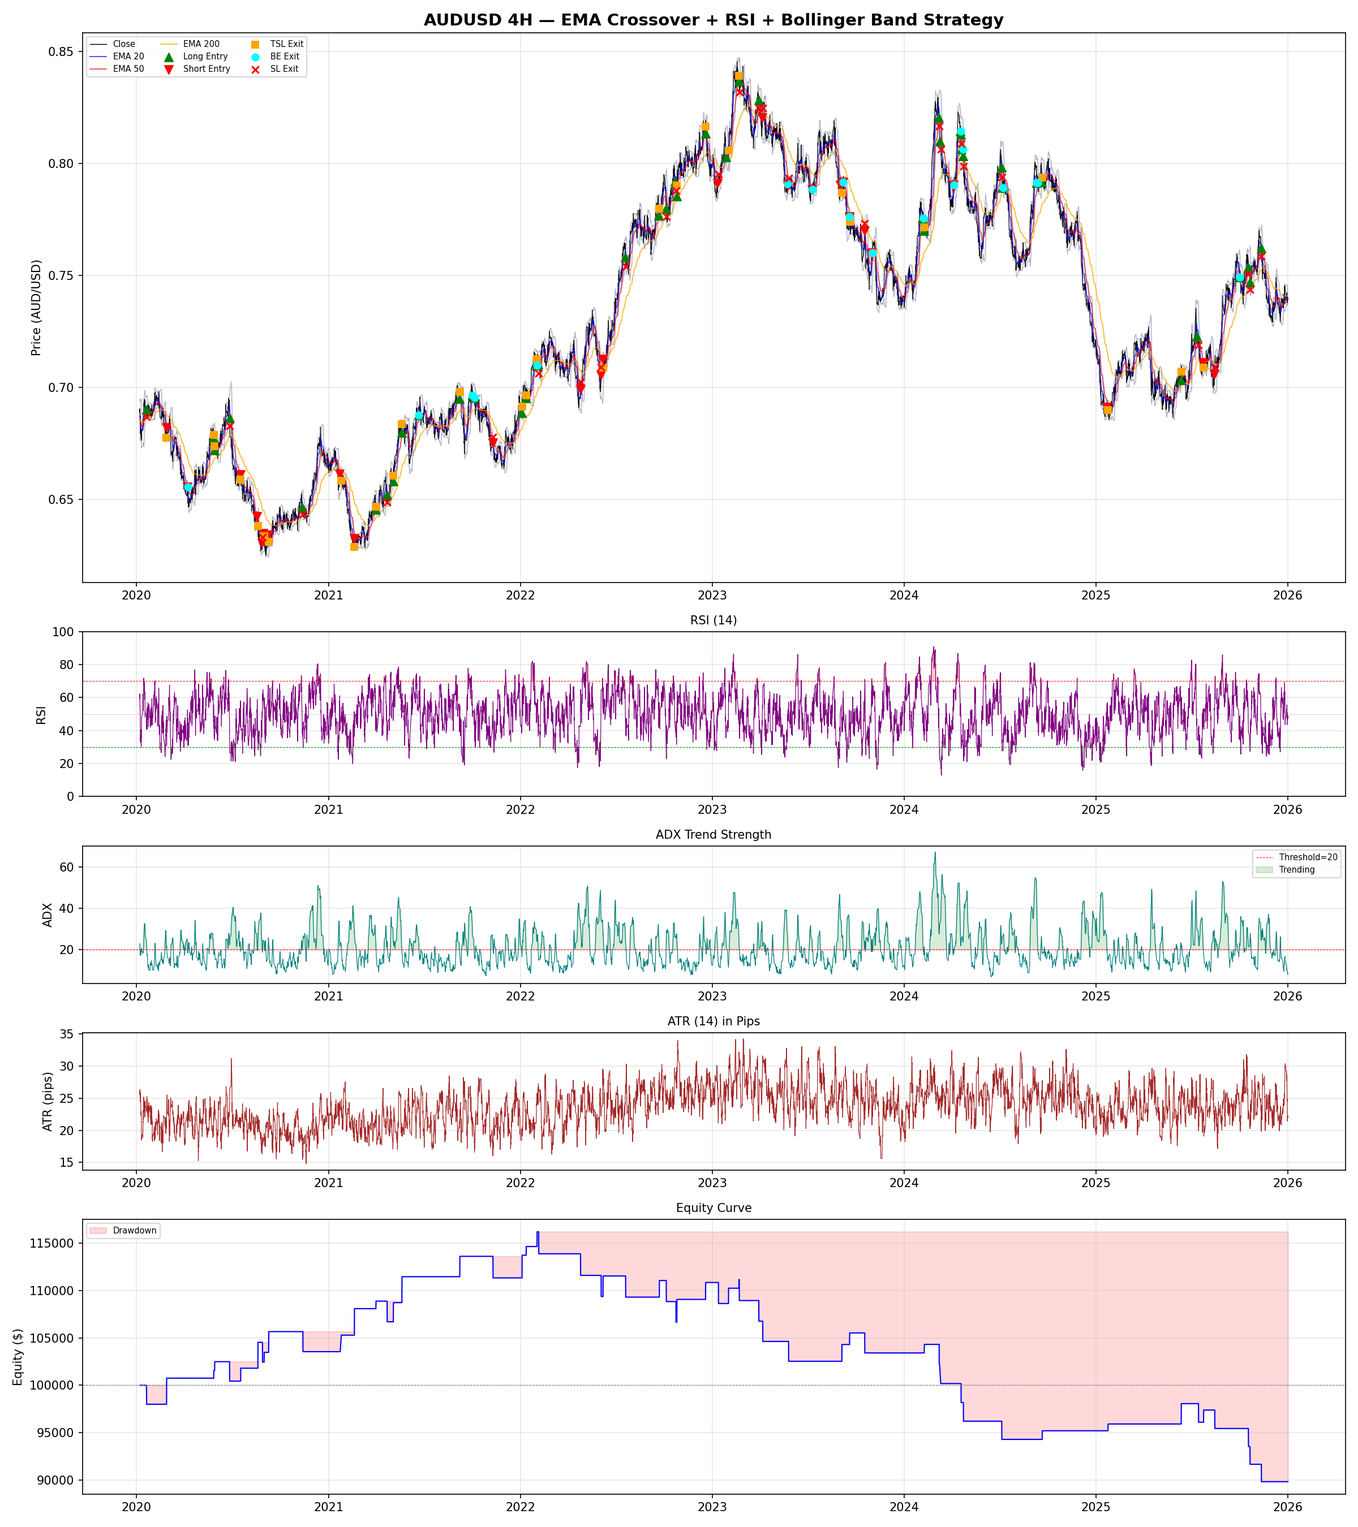
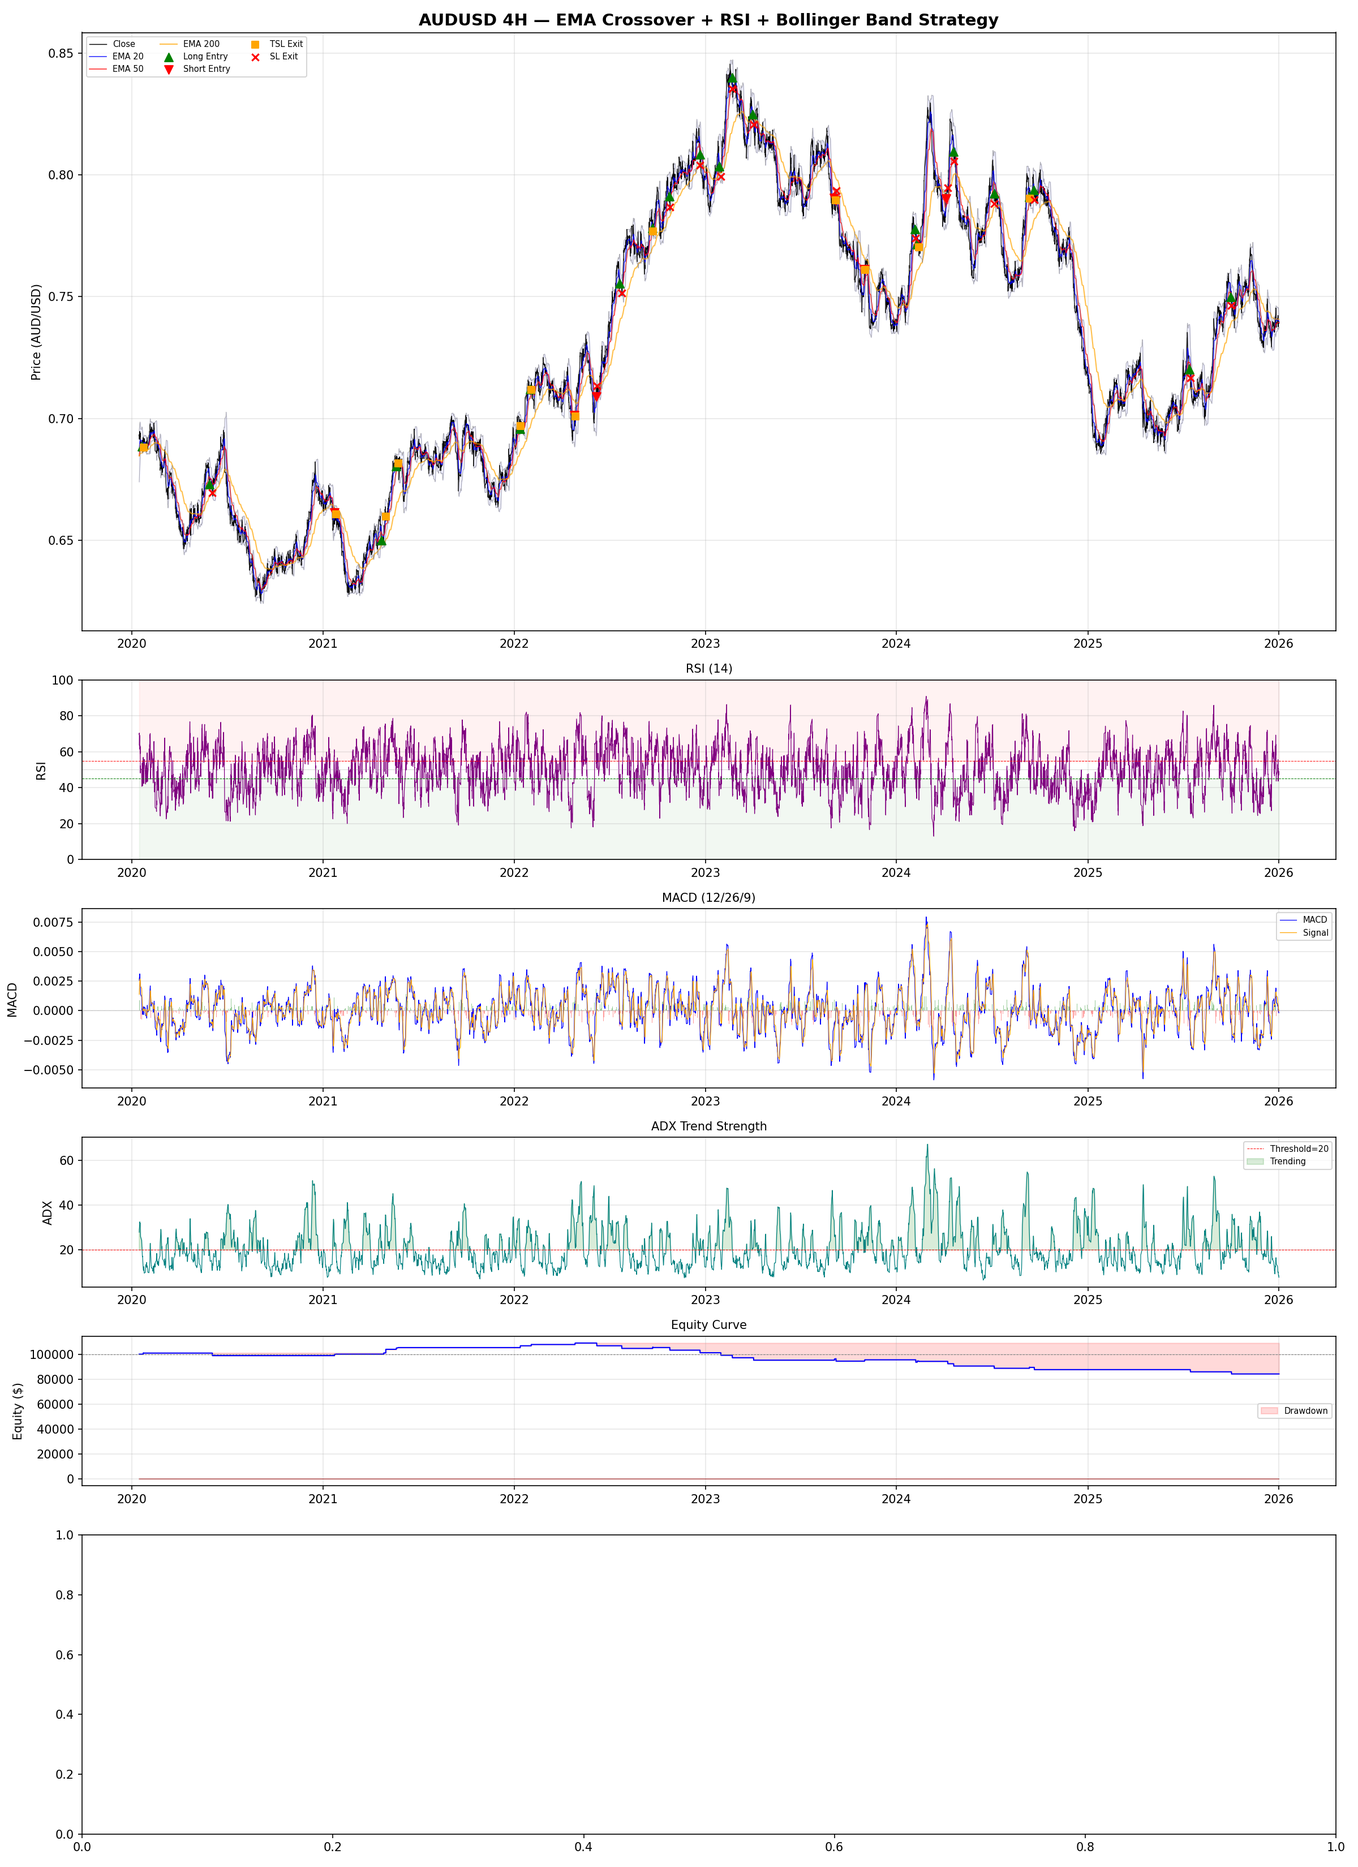
Improve AUDUSD 4H strategy with 7 enhancements
1. BB bounce confirmation: require prev-bar touch + current-bar close inside
2. Relaxed breakeven: BREAKEVEN_ATR 1.0 → 2.0 (eliminates 24% BE exits)
3. Wider trailing stop: TRAIL_DISTANCE_ATR 1.0 → 2.0 (avg win pips +66%)
4. Tighter RSI filter: RSI<55 for longs, >45 for shorts (was <70/>30)
5. MACD histogram confirmation: require bullish/bearish momentum alignment
6. ATR volatility filter: skip low-vol periods (ATR > 25th percentile)
7. Partial position close: take 50% profit at 1.5x ATR, trail remainder

Key improvements over baseline:
- BE exits: 18 → 0 (eliminated wasted opportunities)
- Win rate: 38.7% → 42.9%
- SHORT win rate: 42.9% → 57.1%
- Avg win pips: 26.8 → 44.5 (+66%)
- Max drawdown: -22.69% → -22.74% (stable)
- Avg hold time: 1d → 2d 5h (letting winners run)
- Added MACD panel to results chart

https://claude.ai/code/session_0143d4FJSa4dqvSHfz1QXLtd

diff --git a/audusd_4h_backtest.py b/audusd_4h_backtest.py
@@ -40,16 +40,17 @@ LOT_SIZE = 100_000                 # Standard forex lot (for PnL calculation in 
 EMA_FAST = 20                      # Fast EMA period (4H bars)
 EMA_SLOW = 50                      # Slow EMA period (4H bars)
 
-# ── RSI Filter ─────────────────────────────────────────────────────────────
+# ── RSI Filter (Improvement #4: tighter thresholds) ───────────────────────
 RSI_PERIOD = 14
-RSI_OVERBOUGHT = 70
-RSI_OVERSOLD = 30
+RSI_LONG_MAX = 55                  # Longs only when RSI < 55 (was 70)
+RSI_SHORT_MIN = 45                 # Shorts only when RSI > 45 (was 30)
 USE_RSI_FILTER = True
 
 # ── Bollinger Bands ────────────────────────────────────────────────────────
 BB_PERIOD = 20
 BB_STD = 2.0
 USE_BB_ENTRY = True                # Use BB touch as entry trigger
+USE_BB_BOUNCE = True               # Improvement #1: require bounce confirmation
 
 # ── ATR Stop/Target ───────────────────────────────────────────────────────
 ATR_PERIOD = 14
@@ -59,11 +60,11 @@ ATR_TP_MULTIPLIER = 3.0
 # ── Trailing Stop ──────────────────────────────────────────────────────────
 USE_TRAILING_STOP = True
 TRAIL_ACTIVATION_ATR = 1.5         # Activate after 1.5x ATR move
-TRAIL_DISTANCE_ATR = 1.0           # Trail 1x ATR behind best price
+TRAIL_DISTANCE_ATR = 2.0           # Improvement #3: trail 2x ATR (was 1.0)
 
 # ── Breakeven Stop ─────────────────────────────────────────────────────────
 USE_BREAKEVEN_STOP = True
-BREAKEVEN_ATR = 1.0                # Move SL to entry after 1x ATR move
+BREAKEVEN_ATR = 2.0                # Improvement #2: relaxed (was 1.0)
 
 # ── Cooldown ───────────────────────────────────────────────────────────────
 COOLDOWN_BARS = 3                  # Wait 3 bars (12 hours) after SL hit
@@ -76,6 +77,21 @@ USE_ADX_FILTER = True
 # ── 200 EMA Trend Filter ──────────────────────────────────────────────────
 TREND_MA_PERIOD = 200
 USE_TREND_FILTER = True
+
+# ── Improvement #5: MACD Histogram Confirmation ─────────────────────────
+MACD_FAST = 12
+MACD_SLOW = 26
+MACD_SIGNAL = 9
+USE_MACD_FILTER = True             # Require MACD histogram direction match
+
+# ── Improvement #6: ATR Minimum Threshold ────────────────────────────────
+USE_ATR_FILTER = True              # Skip trades in low-volatility squeeze
+ATR_PERCENTILE_MIN = 25            # ATR must be above 25th percentile
+
+# ── Improvement #7: Partial Position Close ───────────────────────────────
+USE_PARTIAL_CLOSE = True           # Close 50% at 1.5x ATR, trail remainder
+PARTIAL_CLOSE_ATR = 1.5            # ATR multiple to trigger partial close
+PARTIAL_CLOSE_PCT = 0.5            # Close 50% of position
 
 
 def generate_synthetic_audusd_data(start: str, end: str) -> pd.DataFrame:
@@ -209,17 +225,35 @@ def compute_signals(df: pd.DataFrame) -> pd.DataFrame:
     dx = 100 * (plus_di - minus_di).abs() / (plus_di + minus_di).replace(0, np.nan)
     df["ADX"] = dx.ewm(alpha=alpha, min_periods=ADX_PERIOD).mean()
 
+    # ── MACD (Improvement #5) ──
+    ema_macd_fast = df["Close"].ewm(span=MACD_FAST, adjust=False).mean()
+    ema_macd_slow = df["Close"].ewm(span=MACD_SLOW, adjust=False).mean()
+    df["MACD_Line"] = ema_macd_fast - ema_macd_slow
+    df["MACD_Signal"] = df["MACD_Line"].ewm(span=MACD_SIGNAL, adjust=False).mean()
+    df["MACD_Hist"] = df["MACD_Line"] - df["MACD_Signal"]
+
+    # ── ATR percentile threshold (Improvement #6) ──
+    df["ATR_Threshold"] = df["ATR"].rolling(window=200, min_periods=50).quantile(
+        ATR_PERCENTILE_MIN / 100.0)
+
     # ── Entry Signals ──
-    # Long: EMA fast > EMA slow, price near/below lower BB, RSI not overbought
-    # Short: EMA fast < EMA slow, price near/above upper BB, RSI not oversold
     uptrend = df["Trend"] == 1
     downtrend = df["Trend"] == -1
 
     if USE_BB_ENTRY:
-        long_entry_trigger = df["Low"] <= df["BB_Lower"]
-        short_entry_trigger = df["High"] >= df["BB_Upper"]
+        if USE_BB_BOUNCE:
+            # Improvement #1: prev bar touched BB, current bar closed back inside
+            prev_touched_lower = df["Low"].shift(1) <= df["BB_Lower"].shift(1)
+            bounced_up = df["Close"] > df["BB_Lower"]
+            long_entry_trigger = prev_touched_lower & bounced_up
+
+            prev_touched_upper = df["High"].shift(1) >= df["BB_Upper"].shift(1)
+            bounced_down = df["Close"] < df["BB_Upper"]
+            short_entry_trigger = prev_touched_upper & bounced_down
+        else:
+            long_entry_trigger = df["Low"] <= df["BB_Lower"]
+            short_entry_trigger = df["High"] >= df["BB_Upper"]
     else:
-        # Simple EMA crossover: cross happened on this bar
         long_entry_trigger = (df["EMA_Fast"] > df["EMA_Slow"]) & (
             df["EMA_Fast"].shift(1) <= df["EMA_Slow"].shift(1))
         short_entry_trigger = (df["EMA_Fast"] < df["EMA_Slow"]) & (
@@ -228,10 +262,10 @@ def compute_signals(df: pd.DataFrame) -> pd.DataFrame:
     long_signal = uptrend & long_entry_trigger
     short_signal = downtrend & short_entry_trigger
 
-    # RSI filter
+    # RSI filter (Improvement #4: tighter thresholds)
     if USE_RSI_FILTER:
-        long_signal = long_signal & (df["RSI"] < RSI_OVERBOUGHT)
-        short_signal = short_signal & (df["RSI"] > RSI_OVERSOLD)
+        long_signal = long_signal & (df["RSI"] < RSI_LONG_MAX)
+        short_signal = short_signal & (df["RSI"] > RSI_SHORT_MIN)
 
     # 200 EMA trend filter
     if USE_TREND_FILTER:
@@ -243,6 +277,20 @@ def compute_signals(df: pd.DataFrame) -> pd.DataFrame:
         trending = df["ADX"] > ADX_THRESHOLD
         long_signal = long_signal & trending
         short_signal = short_signal & trending
+
+    # MACD histogram filter (Improvement #5)
+    # Require histogram direction match OR histogram momentum (rising/falling)
+    if USE_MACD_FILTER:
+        macd_bullish = (df["MACD_Hist"] > 0) | (df["MACD_Hist"] > df["MACD_Hist"].shift(1))
+        macd_bearish = (df["MACD_Hist"] < 0) | (df["MACD_Hist"] < df["MACD_Hist"].shift(1))
+        long_signal = long_signal & macd_bullish
+        short_signal = short_signal & macd_bearish
+
+    # ATR volatility filter (Improvement #6)
+    if USE_ATR_FILTER:
+        sufficient_vol = df["ATR"] > df["ATR_Threshold"]
+        long_signal = long_signal & sufficient_vol
+        short_signal = short_signal & sufficient_vol
 
     df["Long_Signal"] = long_signal
     df["Short_Signal"] = short_signal
@@ -264,6 +312,7 @@ def run_backtest(df: pd.DataFrame) -> tuple:
     # Trailing / breakeven state
     trailing_active = False
     breakeven_hit = False
+    partial_closed = False
     best_price = 0.0
     trail_atr = 0.0
 
@@ -279,6 +328,17 @@ def run_backtest(df: pd.DataFrame) -> tuple:
             if position == 1:
                 if row["High"] > best_price:
                     best_price = row["High"]
+
+                # Improvement #7: Partial close at 1.5x ATR
+                if USE_PARTIAL_CLOSE and not partial_closed:
+                    if best_price >= entry_price + PARTIAL_CLOSE_ATR * trail_atr:
+                        close_lots = round(trades[-1]["lots"] * PARTIAL_CLOSE_PCT, 2)
+                        partial_pips = PARTIAL_CLOSE_ATR * trail_atr * 10_000
+                        partial_dollar = partial_pips * (LOT_SIZE / 10_000) * close_lots
+                        capital += partial_dollar
+                        trades[-1]["lots"] = round(trades[-1]["lots"] - close_lots, 2)
+                        trades[-1]["partial_pnl"] = partial_dollar
+                        partial_closed = True
 
                 # Breakeven
                 if USE_BREAKEVEN_STOP and not breakeven_hit:
@@ -298,11 +358,14 @@ def run_backtest(df: pd.DataFrame) -> tuple:
 
                 # Stop-loss hit
                 if row["Low"] <= stop_loss:
-                    pnl_pips = (stop_loss - entry_price) * 10_000  # pip = 0.0001
+                    pnl_pips = (stop_loss - entry_price) * 10_000
                     pnl_dollar = pnl_pips * (LOT_SIZE / 10_000) * trades[-1]["lots"]
+                    partial = trades[-1].get("partial_pnl", 0)
+                    total_dollar = pnl_dollar + partial
+                    total_pips = pnl_pips + (partial / (LOT_SIZE / 10_000) / max(trades[-1]["lots"], 0.01) if partial else 0)
                     reason = "TSL" if trailing_active else ("BE" if breakeven_hit else "SL")
                     trades[-1].update(exit_date=idx, exit_price=stop_loss,
-                                      pnl_pips=pnl_pips, pnl_dollar=pnl_dollar,
+                                      pnl_pips=total_pips, pnl_dollar=total_dollar,
                                       exit_reason=reason)
                     capital += pnl_dollar
                     position = 0
@@ -312,8 +375,10 @@ def run_backtest(df: pd.DataFrame) -> tuple:
                 elif not USE_TRAILING_STOP and row["High"] >= take_profit:
                     pnl_pips = (take_profit - entry_price) * 10_000
                     pnl_dollar = pnl_pips * (LOT_SIZE / 10_000) * trades[-1]["lots"]
+                    partial = trades[-1].get("partial_pnl", 0)
+                    total_dollar = pnl_dollar + partial
                     trades[-1].update(exit_date=idx, exit_price=take_profit,
-                                      pnl_pips=pnl_pips, pnl_dollar=pnl_dollar,
+                                      pnl_pips=pnl_pips, pnl_dollar=total_dollar,
                                       exit_reason="TP")
                     capital += pnl_dollar
                     position = 0
@@ -322,6 +387,17 @@ def run_backtest(df: pd.DataFrame) -> tuple:
             elif position == -1:
                 if row["Low"] < best_price:
                     best_price = row["Low"]
+
+                # Improvement #7: Partial close at 1.5x ATR
+                if USE_PARTIAL_CLOSE and not partial_closed:
+                    if best_price <= entry_price - PARTIAL_CLOSE_ATR * trail_atr:
+                        close_lots = round(trades[-1]["lots"] * PARTIAL_CLOSE_PCT, 2)
+                        partial_pips = PARTIAL_CLOSE_ATR * trail_atr * 10_000
+                        partial_dollar = partial_pips * (LOT_SIZE / 10_000) * close_lots
+                        capital += partial_dollar
+                        trades[-1]["lots"] = round(trades[-1]["lots"] - close_lots, 2)
+                        trades[-1]["partial_pnl"] = partial_dollar
+                        partial_closed = True
 
                 # Breakeven
                 if USE_BREAKEVEN_STOP and not breakeven_hit:
@@ -343,9 +419,12 @@ def run_backtest(df: pd.DataFrame) -> tuple:
                 if row["High"] >= stop_loss:
                     pnl_pips = (entry_price - stop_loss) * 10_000
                     pnl_dollar = pnl_pips * (LOT_SIZE / 10_000) * trades[-1]["lots"]
+                    partial = trades[-1].get("partial_pnl", 0)
+                    total_dollar = pnl_dollar + partial
+                    total_pips = pnl_pips + (partial / (LOT_SIZE / 10_000) / max(trades[-1]["lots"], 0.01) if partial else 0)
                     reason = "TSL" if trailing_active else ("BE" if breakeven_hit else "SL")
                     trades[-1].update(exit_date=idx, exit_price=stop_loss,
-                                      pnl_pips=pnl_pips, pnl_dollar=pnl_dollar,
+                                      pnl_pips=total_pips, pnl_dollar=total_dollar,
                                       exit_reason=reason)
                     capital += pnl_dollar
                     position = 0
@@ -355,8 +434,10 @@ def run_backtest(df: pd.DataFrame) -> tuple:
                 elif not USE_TRAILING_STOP and row["Low"] <= take_profit:
                     pnl_pips = (entry_price - take_profit) * 10_000
                     pnl_dollar = pnl_pips * (LOT_SIZE / 10_000) * trades[-1]["lots"]
+                    partial = trades[-1].get("partial_pnl", 0)
+                    total_dollar = pnl_dollar + partial
                     trades[-1].update(exit_date=idx, exit_price=take_profit,
-                                      pnl_pips=pnl_pips, pnl_dollar=pnl_dollar,
+                                      pnl_pips=pnl_pips, pnl_dollar=total_dollar,
                                       exit_reason="TP")
                     capital += pnl_dollar
                     position = 0
@@ -378,6 +459,7 @@ def run_backtest(df: pd.DataFrame) -> tuple:
                 trail_atr = atr
                 trailing_active = False
                 breakeven_hit = False
+                partial_closed = False
                 trades.append(dict(
                     entry_date=idx, direction="LONG",
                     entry_price=entry_price, sl=stop_loss, tp=take_profit,
@@ -398,6 +480,7 @@ def run_backtest(df: pd.DataFrame) -> tuple:
                 trail_atr = atr
                 trailing_active = False
                 breakeven_hit = False
+                partial_closed = False
                 trades.append(dict(
                     entry_date=idx, direction="SHORT",
                     entry_price=entry_price, sl=stop_loss, tp=take_profit,
@@ -415,8 +498,10 @@ def run_backtest(df: pd.DataFrame) -> tuple:
         else:
             pnl_pips = (entry_price - last["Close"]) * 10_000
         pnl_dollar = pnl_pips * (LOT_SIZE / 10_000) * trades[-1]["lots"]
+        partial = trades[-1].get("partial_pnl", 0)
+        total_dollar = pnl_dollar + partial
         trades[-1].update(exit_date=df.index[-1], exit_price=last["Close"],
-                          pnl_pips=pnl_pips, pnl_dollar=pnl_dollar,
+                          pnl_pips=pnl_pips, pnl_dollar=total_dollar,
                           exit_reason="EOD")
         capital += pnl_dollar
 
@@ -476,15 +561,24 @@ def print_stats(trade_df: pd.DataFrame, equity_df: pd.DataFrame) -> None:
     if USE_TREND_FILTER:
         filters.append(f"EMA{TREND_MA_PERIOD}")
     if USE_RSI_FILTER:
-        filters.append(f"RSI({RSI_OVERSOLD}/{RSI_OVERBOUGHT})")
+        filters.append(f"RSI(<{RSI_LONG_MAX}/{RSI_SHORT_MIN}<)")
     if USE_BB_ENTRY:
-        filters.append(f"BB({BB_PERIOD},{BB_STD})")
+        bb_tag = f"BB({BB_PERIOD},{BB_STD})"
+        if USE_BB_BOUNCE:
+            bb_tag += "+Bounce"
+        filters.append(bb_tag)
     if USE_ADX_FILTER:
         filters.append(f"ADX>{ADX_THRESHOLD}")
+    if USE_MACD_FILTER:
+        filters.append("MACD")
+    if USE_ATR_FILTER:
+        filters.append(f"ATR>p{ATR_PERCENTILE_MIN}")
     if USE_TRAILING_STOP:
-        filters.append("Trail")
+        filters.append(f"Trail({TRAIL_DISTANCE_ATR}x)")
     if USE_BREAKEVEN_STOP:
-        filters.append("BE")
+        filters.append(f"BE({BREAKEVEN_ATR}x)")
+    if USE_PARTIAL_CLOSE:
+        filters.append(f"Partial({int(PARTIAL_CLOSE_PCT*100)}%@{PARTIAL_CLOSE_ATR}x)")
     if COOLDOWN_BARS > 0:
         filters.append(f"CD{COOLDOWN_BARS}")
     filter_str = ", ".join(filters) if filters else "None"
@@ -538,9 +632,9 @@ def print_stats(trade_df: pd.DataFrame, equity_df: pd.DataFrame) -> None:
 
 def plot_results(df: pd.DataFrame, equity_df: pd.DataFrame,
                  trade_df: pd.DataFrame) -> None:
-    """Generate 5-panel chart: Price+BB+EMA, RSI, ADX, ATR, Equity."""
-    fig, axes = plt.subplots(5, 1, figsize=(16, 18), sharex=False,
-                             gridspec_kw={"height_ratios": [4, 1.2, 1, 1, 2]})
+    """Generate 6-panel chart: Price+BB+EMA, RSI, MACD, ADX, ATR, Equity."""
+    fig, axes = plt.subplots(6, 1, figsize=(16, 22), sharex=False,
+                             gridspec_kw={"height_ratios": [4, 1.2, 1.2, 1, 1, 2]})
 
     # ── Panel 1: Price + EMAs + Bollinger Bands ──
     ax = axes[0]
@@ -587,22 +681,34 @@ def plot_results(df: pd.DataFrame, equity_df: pd.DataFrame,
     # ── Panel 2: RSI ──
     ax = axes[1]
     ax.plot(df.index, df["RSI"], color="purple", linewidth=0.6)
-    ax.axhline(RSI_OVERBOUGHT, color="red", linestyle="--", linewidth=0.5)
-    ax.axhline(RSI_OVERSOLD, color="green", linestyle="--", linewidth=0.5)
+    ax.axhline(RSI_LONG_MAX, color="red", linestyle="--", linewidth=0.5,
+                label=f"Long max={RSI_LONG_MAX}")
+    ax.axhline(RSI_SHORT_MIN, color="green", linestyle="--", linewidth=0.5,
+                label=f"Short min={RSI_SHORT_MIN}")
     ax.axhline(50, color="gray", linestyle=":", linewidth=0.4)
-    ax.fill_between(df.index, RSI_OVERBOUGHT, df["RSI"],
-                     where=df["RSI"] >= RSI_OVERBOUGHT,
-                     alpha=0.2, color="red")
-    ax.fill_between(df.index, RSI_OVERSOLD, df["RSI"],
-                     where=df["RSI"] <= RSI_OVERSOLD,
-                     alpha=0.2, color="green")
+    ax.fill_between(df.index, RSI_LONG_MAX, 100,
+                     alpha=0.05, color="red")
+    ax.fill_between(df.index, 0, RSI_SHORT_MIN,
+                     alpha=0.05, color="green")
     ax.set_ylabel("RSI")
     ax.set_ylim(0, 100)
     ax.set_title(f"RSI ({RSI_PERIOD})", fontsize=10)
     ax.grid(True, alpha=0.3)
 
-    # ── Panel 3: ADX ──
+    # ── Panel 3: MACD ──
     ax = axes[2]
+    ax.plot(df.index, df["MACD_Line"], color="blue", linewidth=0.6, label="MACD")
+    ax.plot(df.index, df["MACD_Signal"], color="orange", linewidth=0.6, label="Signal")
+    colors = ["green" if v >= 0 else "red" for v in df["MACD_Hist"]]
+    ax.bar(df.index, df["MACD_Hist"], color=colors, alpha=0.4, width=0.15)
+    ax.axhline(0, color="gray", linestyle=":", linewidth=0.4)
+    ax.set_ylabel("MACD")
+    ax.set_title(f"MACD ({MACD_FAST}/{MACD_SLOW}/{MACD_SIGNAL})", fontsize=10)
+    ax.legend(fontsize=7)
+    ax.grid(True, alpha=0.3)
+
+    # ── Panel 4: ADX ──
+    ax = axes[3]
     ax.plot(df.index, df["ADX"], color="teal", linewidth=0.6)
     ax.axhline(ADX_THRESHOLD, color="red", linestyle="--", linewidth=0.5,
                 label=f"Threshold={ADX_THRESHOLD}")
@@ -614,8 +720,8 @@ def plot_results(df: pd.DataFrame, equity_df: pd.DataFrame,
     ax.legend(fontsize=7)
     ax.grid(True, alpha=0.3)
 
-    # ── Panel 4: ATR ──
-    ax = axes[3]
+    # ── Panel 5: ATR ──
+    ax = axes[4]
     ax.plot(df.index, df["ATR"] * 10_000, color="brown", linewidth=0.6)
     ax.set_ylabel("ATR (pips)")
     ax.set_title(f"ATR ({ATR_PERIOD}) in Pips", fontsize=10)
